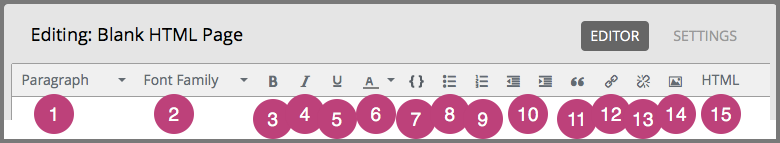
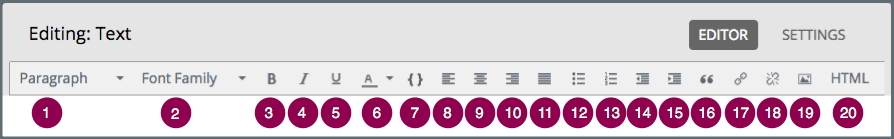
Update course author docs to reflect HTML alignment options

diff --git a/en_us/shared/course_components/create_html_component.rst b/en_us/shared/course_components/create_html_component.rst
@@ -97,9 +97,9 @@ Set the Editor for an HTML Component
 
 .. _The Visual Editor:
 
-*****************************************
+*****************
 The Visual Editor
-*****************************************
+*****************
 
 The visual editor provides a "what you see is what you get" (WYSIWYG) interface
 that allows you to format text by selecting options at the top
@@ -113,32 +113,47 @@ descriptions.
    formatting buttons.
   :width: 600
 
-#. Choose a formatting style for the selected text, such as paragraph,
-   ``preformatted`` (monospace), or a heading level. The heading levels
-   available for an HTML component begin with Heading 3. Because HTML
-   components are part of a complete page, and heading levels 1 and 2 are in
-   use by other elements on the page, any text with a heading 1 or 2 style
-   within an HTML component can interfere with the functionality of tools such
-   as screen readers.
+#. Select a formatting style for the selected text, such as paragraph,
+   ``preformatted`` (monospace), or a heading level.
 
-#. Choose a font family for selected text, such as Arial, Courier New, or Times
+   .. note::
+     The available heading levels in the HTML component editor begin with
+     heading 3 (``<h3>``). HTML components are part of a complete page, and
+     elements outside the HTML component use heading levels 1 and 2 by default.
+     Because tools such as screen readers use heading levels to navigate
+     through pages, using heading levels 1 or 2 inside an HTML component can
+     interfere with the functionality of these tools.
+
+#. Select a font family for selected text, such as Arial, Courier New, or Times
    New Roman.
 
-#. Format the selected text in bold, or remove bolding. The editor inserts
-   ``<strong>`` tags around the selected text.
+#. Format the selected text in bold, or remove this formatting. The editor
+   inserts ``<strong>`` tags around the selected text.
 
-#. Format the selected text in italics, or remove italicization. The editor
+#. Format the selected text in italics, or remove this formatting. The editor
    inserts ``<em>`` tags around the selected text.
 
-#. Underline the selected text, or remove underlining. The editor encloses the
-   selected text in the tag ``<span style="text-decoration: underline;">``.
+#. Underline the selected text, or remove this formatting. The editor encloses
+   the selected text in the tag ``<span style="text-decoration: underline;">``.
 
-#. Apply a color to the selected text. The editor encloses the selected text in
-   the tag ``<span style="color: color-hex-code;">``.
+#. Change the color of the selected text. The editor encloses the selected text
+   in the tag ``<span style="color: color-hex-code;">``.
 
 #. Format the selected text as a code block, or remove this formatting. The
    editor inserts ``<code>`` tags around the selected text, which is then
    displayed in a monospace font.
+
+#. Align text and images to the left. The editor adds ``style="text-align:
+   left;"`` to the ``<p>`` tags that surround the text.
+
+#. Center text and images. The editor adds ``style="text-align: center;"`` to
+   the ``<p>`` tags that surround the text.
+
+#. Align text and images to the right. The editor adds ``style="text-align:
+   right;"`` to the ``<p>`` tags that surround the text.
+
+#. Justify text and images. The editor adds ``style="text-align: justify;"`` to
+   the ``<p>`` tags that surround the text.
 
 #. Create a bulleted list, or remove this formatting. The editor inserts
    ``<ul>`` tags around the selected text, and encloses each paragraph in
@@ -148,18 +163,19 @@ descriptions.
    ``<ol>`` tags around the selected text, and encloses each paragraph in
    ``<li>`` tags.
 
-#. Decrease and increased the indentation of the selected paragraph.
+#. Decrease and increase the indentation of the selected paragraph.
 
 #. Format the selected paragraph as a blockquote. The editor inserts
    ``<blockquote>`` tags around the selected text, which is then displayed as a
    separate paragraph in a monospace font.
 
-#. Create a hypertext link from the selected text. See :ref:`Add a Link in an
-   HTML Component`.
+#. Create a hypertext link from the selected text. For more information, see
+   :ref:`Add a Link in an HTML Component`.
 
 #. Remove a hypertext link from the selected text.
 
-#. Insert an image at the cursor. See :ref:`Add an Image to an HTML Component`.
+#. Insert an image at the cursor. For more information, see :ref:`Add an Image
+   to an HTML Component`.
 
 #. Review the HTML markup.
 
@@ -213,11 +229,13 @@ When you use this editor, you must supply valid HTML. The raw HTML editor does
 not validate your HTML code. If you use this editor, you should thoroughly test
 the HTML content in your course.
 
-.. important:: Because HTML components are part of a complete page, any
-   text with a heading 1 or 2 style within an HTML component can interfere
-   with the functionality of tools such as screen readers. Be sure that the
-   headings you add to an HTML component are Heading 3 ``<h3>`` through Heading
-   6 ``<h6>``, and not ``<h1>`` or ``<h2>``.
+.. important::
+ When you add a heading to an HTML component, make sure that you use only
+ heading level 3 ``<h3>`` through heading level 6 ``<h6>``. HTML components are
+ part of a complete page, and elements outside the HTML component use heading
+ levels 1 and 2 by default. Because tools such as screen readers use heading
+ levels to navigate through pages, using heading levels 1 or 2 inside an HTML
+ component can interfere with the functionality of these tools.
 
 .. _HTML Component Templates:
 
